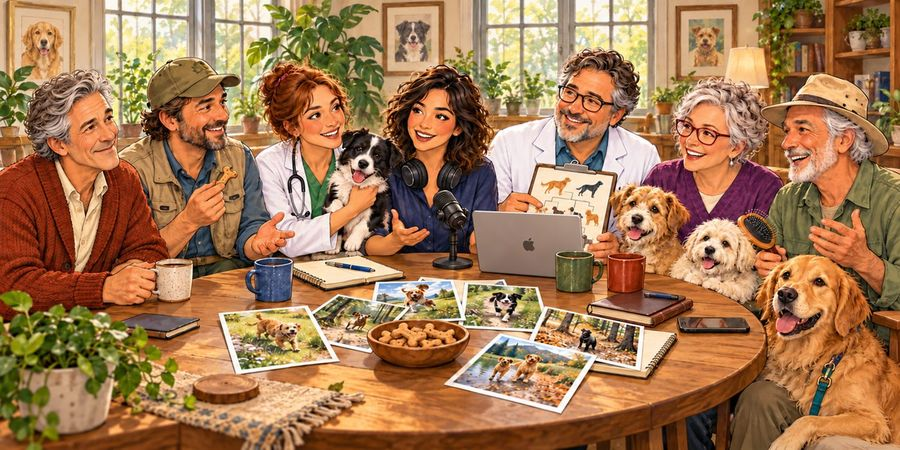
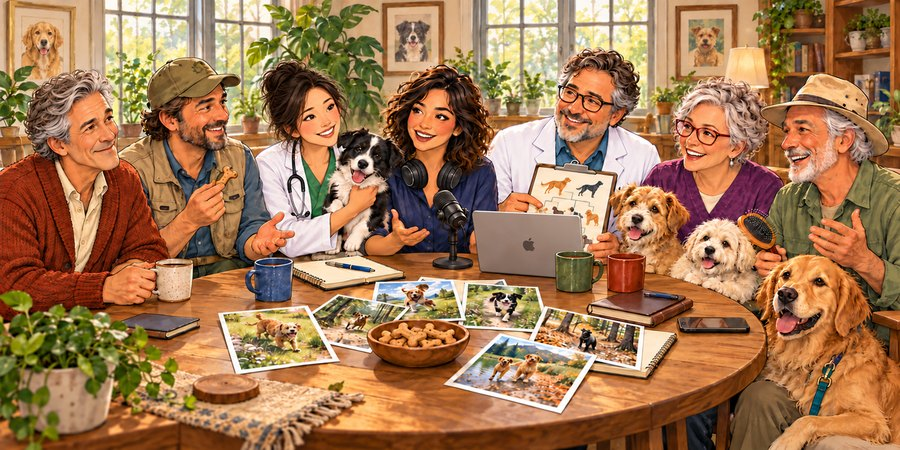
New round-table picture with Claire; new cover; updated picture descriptions

diff --git a/index.html b/index.html
@@ -30,7 +30,7 @@
     <p class="series">The TurtleRock Paws Podcast</p>
     <h1 id="title">Loading&hellip;</h1>
     <p class="meta" id="meta"></p>
-    <figure class="hero"><img src="table.jpg" width="1400" height="700" alt="An illustration of seven friendly characters and their dogs around a wooden table with coffee mugs, notebooks, a laptop and a microphone: Hal, Ed, Clara, Andria, Mike, Judy and Charles." decoding="async"></figure>
+    <figure class="hero"><img src="table.jpg?v=2" width="1400" height="700" alt="An illustration of the seven AI voices of the show and their dogs around a wooden table with coffee mugs, notebooks, printed dog photos, a laptop and a microphone. Left to right: Hal, Ed, Clara, Andria, Mike, Judy and Charles." decoding="async"></figure>
 
     <div class="table" id="table" role="group" aria-label="Voices in this episode"></div>
     <p class="nowspeaking" id="nowspeaking" aria-live="polite">Press play to join the table.</p>

diff --git a/home-card.html b/home-card.html
@@ -24,7 +24,7 @@ a.alt{background:#fff;color:var(--plum);border:2px solid var(--plum)}a.alt:hover
 @media (max-width:640px){.card{grid-template-columns:1fr;grid-template-rows:auto 1fr}.pic{aspect-ratio:2/1;height:auto}.pic img{position:static}.txt{padding:14px 16px;gap:8px}.latest{font-size:14px}a.b{min-height:44px;padding:8px 14px;font-size:14px}h2{font-size:26px}}
 </style></head><body>
 <div class="card">
-  <div class="pic"><img src="card-table.jpg" alt="Seven friendly characters and their dogs around a wooden table with coffee mugs and a microphone"></div>
+  <div class="pic"><img src="card-table.jpg?v=2" alt="The seven AI voices of the show and their dogs around a wooden table with coffee mugs and a microphone. Left to right: Hal, Ed, Clara, Andria, Mike, Judy and Charles."></div>
   <div class="txt">
     <p class="k">The TurtleRock Paws Podcast</p>
     <h2>Today&rsquo;s Walk, Let&rsquo;s Talk</h2>
